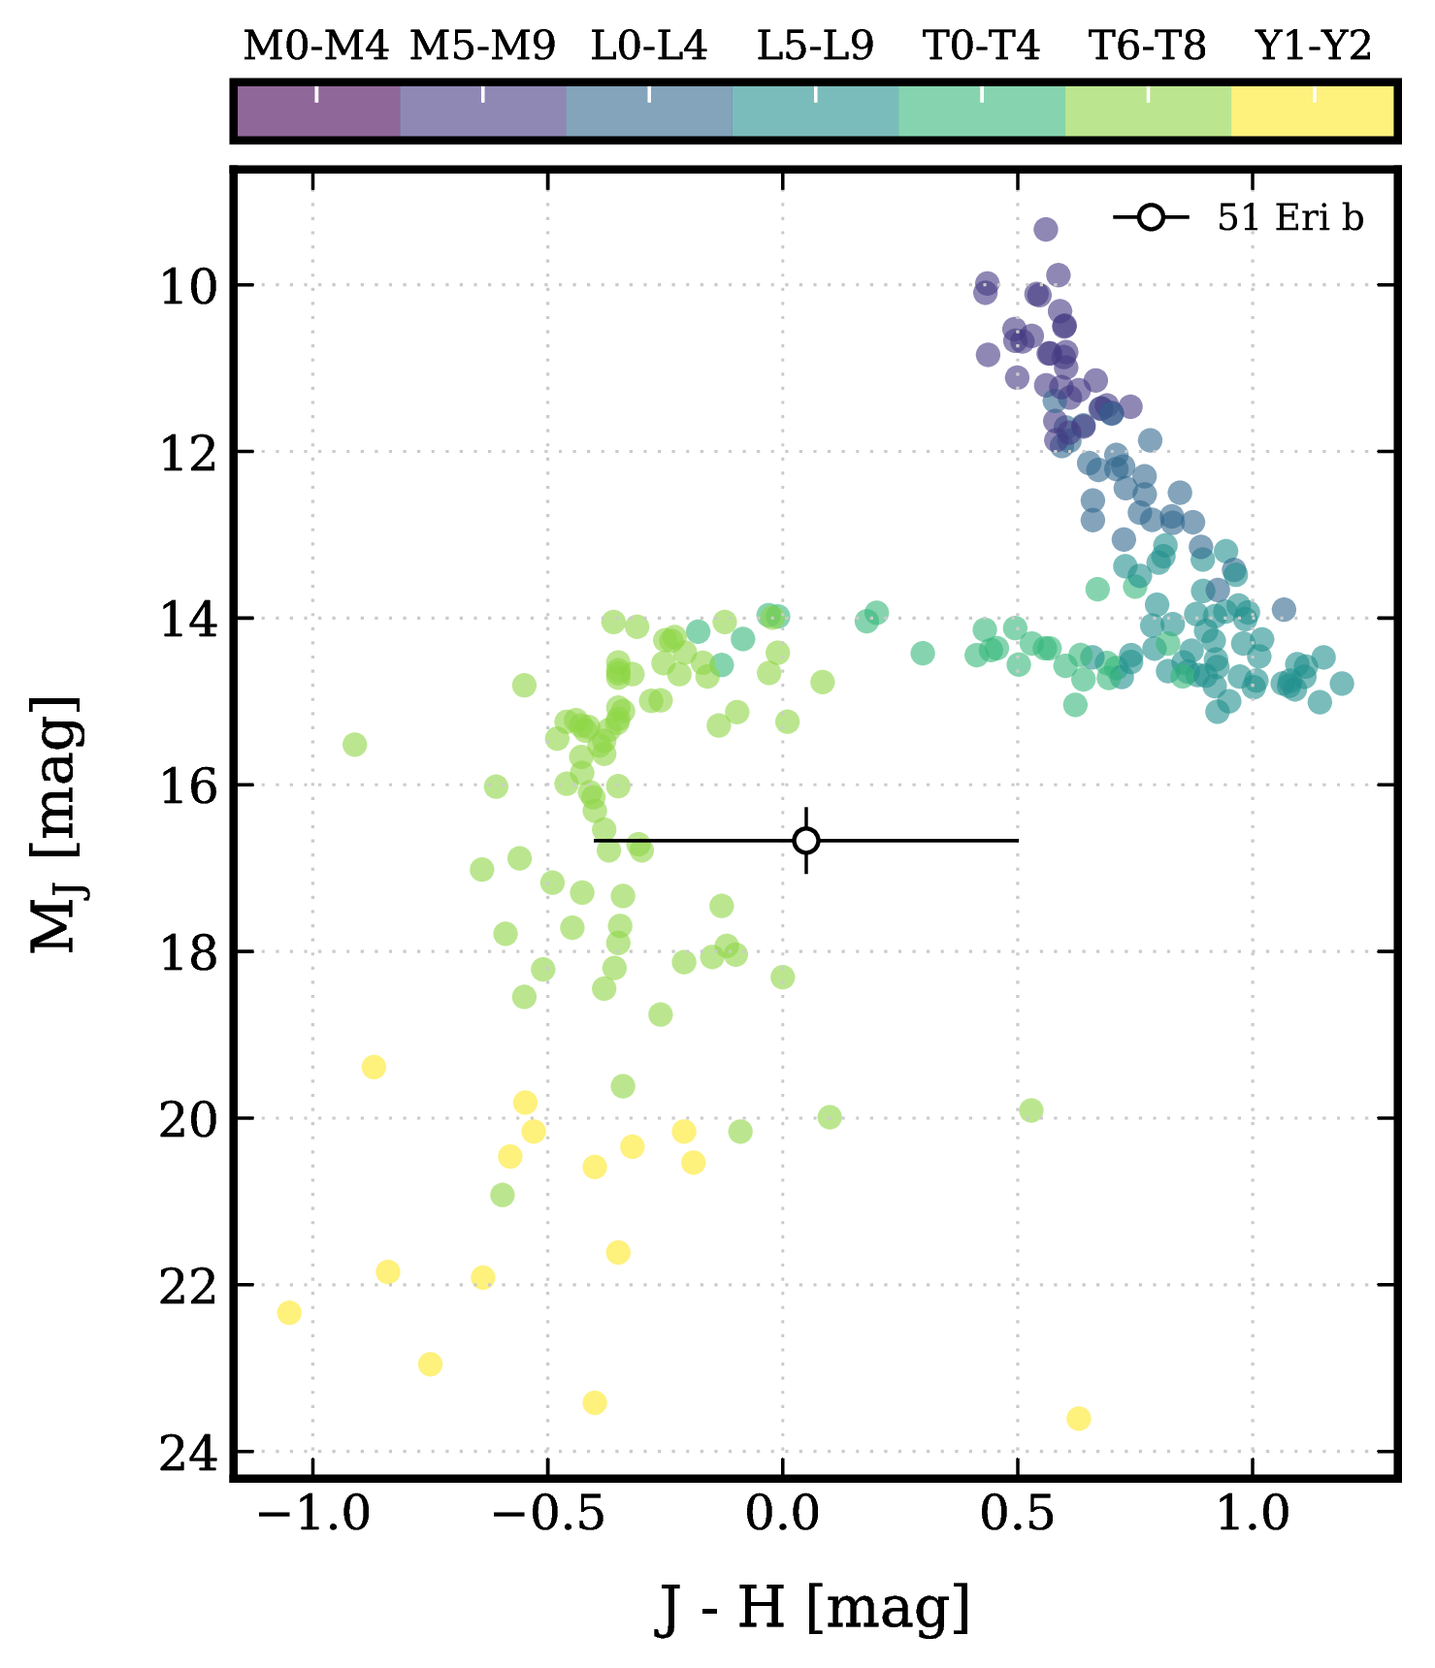
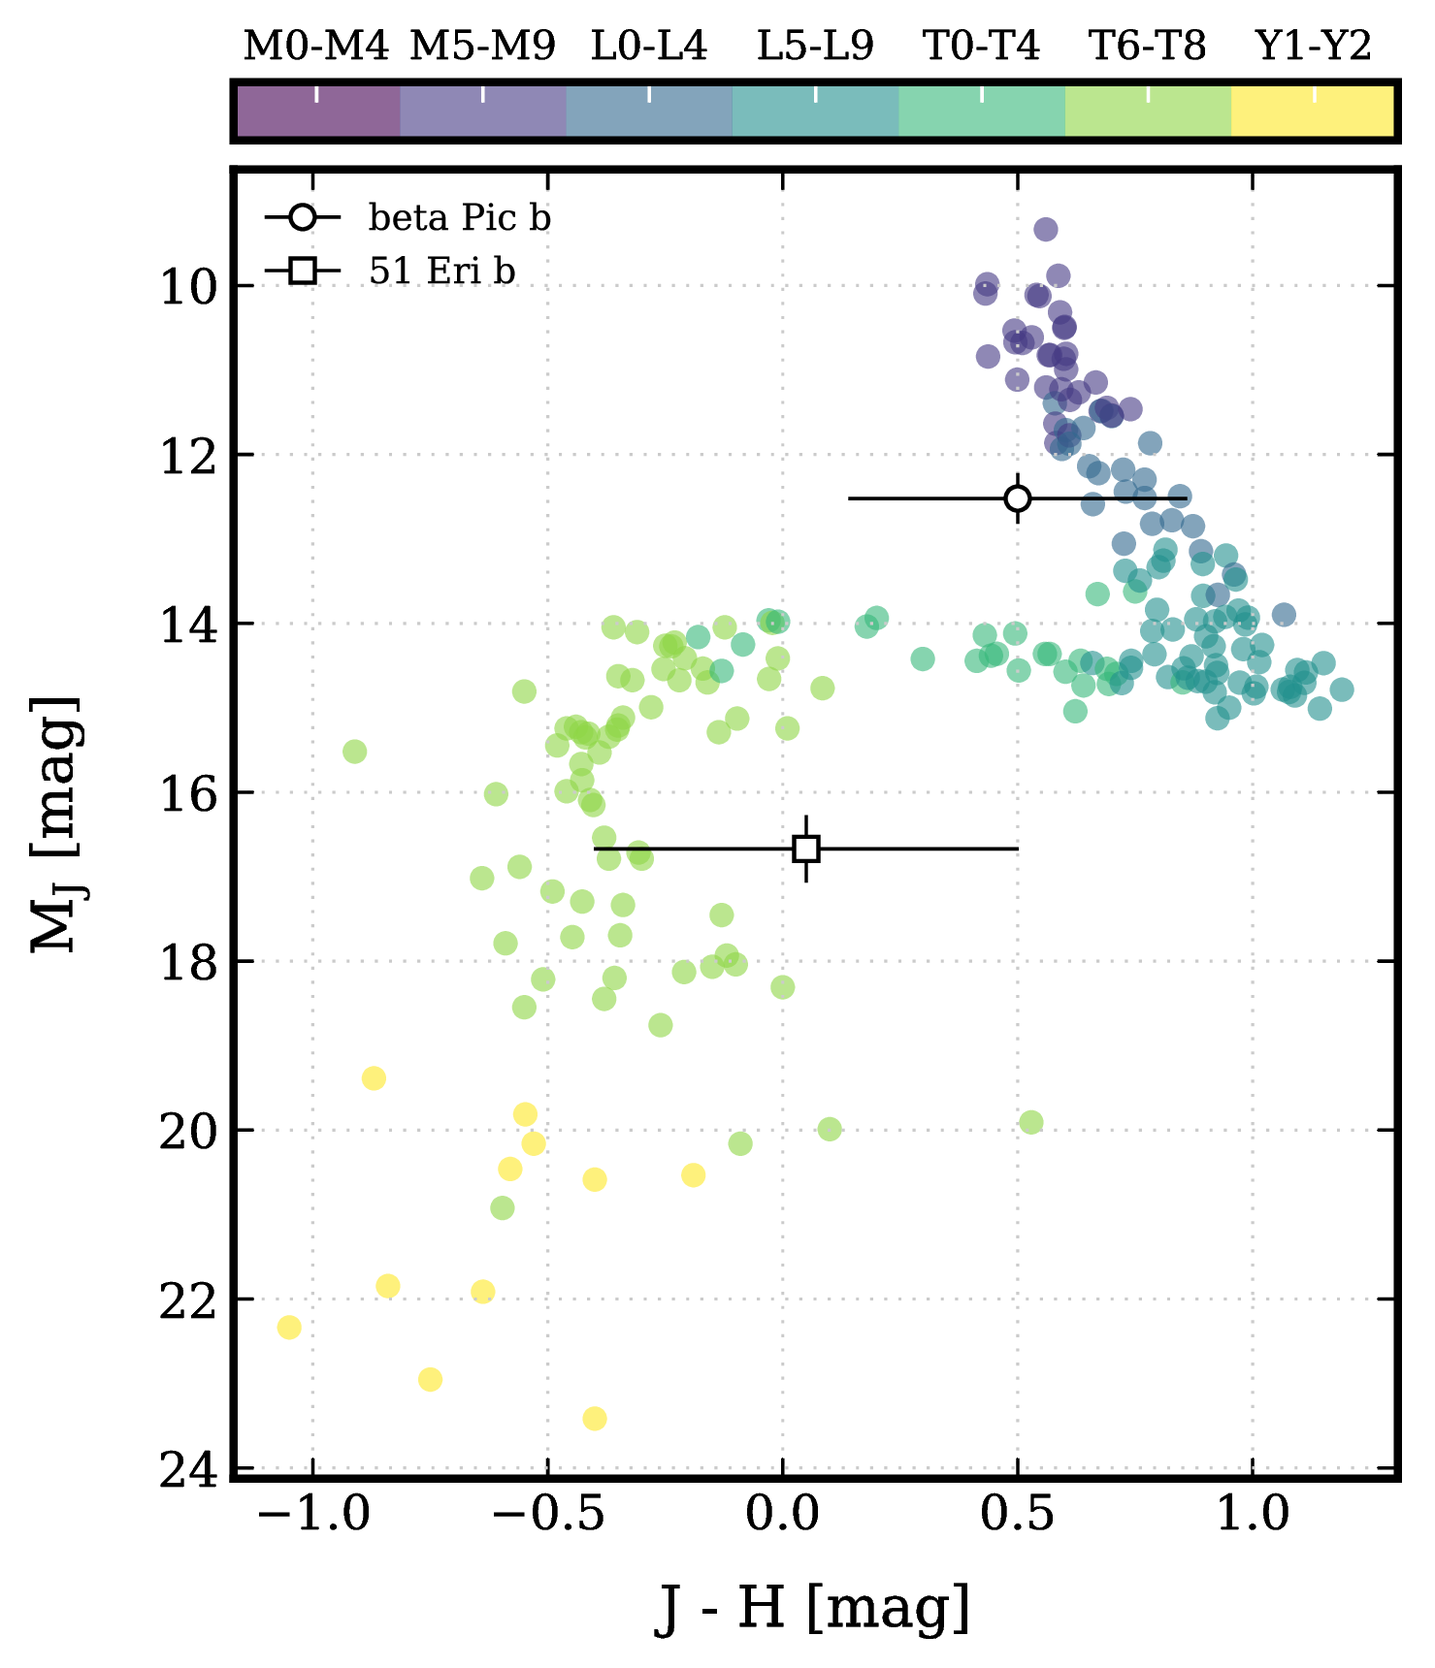
companion data

diff --git a/species/data/companions.py b/species/data/companions.py
@@ -36,59 +36,70 @@ def get_data():
                                    'Keck/NIRC2.Lp':(16.20, 0.11), # Rajan et al. 2017
                                    'Keck/NIRC2.Ms':(16.1, 0.5)}}, # Rajan et al. 2017
 
-            # 'HR 8799 b':{'distance':41.29,
-            #              'app_mag':{'':(),
-            #                         '':(),
-            #                         '':(),
-            #                         '':(),
-            #                         '':(),
-            #                         '':(),
-            #                         '':()}},
+            'HR 8799 b':{'distance':41.29,
+                         'app_mag':{'Subaru/CIAO.z':(21.22, 0.29), # Currie et al. 2011
+                                    'Paranal/SPHERE.IRDIS_B_J':(19.78, 0.09), # Zurlo et al. 2016
+                                    'Keck/NIRC2.H':(18.05, 0.09), # Currie et al. 2012
+                                    'Paranal/SPHERE.IRDIS_D_H23_2':(18.08, 0.14), # Zurlo et al. 2016
+                                    'Paranal/SPHERE.IRDIS_D_H23_3':(17.78, 0.10), # Zurlo et al. 2016
+                                    'Keck/NIRC2.Ks':(17.03, 0.08), # Marois et al. 2010
+                                    'Paranal/SPHERE.IRDIS_D_K12_1':(17.15, 0.06), # Zurlo et al. 2016
+                                    'Paranal/SPHERE.IRDIS_D_K12_2':(16.97, 0.09), # Zurlo et al. 2016
+                                    'Keck/NIRC2.Lp':(15.58, 0.10), # Currie et al. 2014
+                                    'Keck/NIRC2.Ms':(16.05, 0.30)}}, # Galicher et al. 2011
 
-            # 'HR 8799 c':{'distance':41.29,
-            #              'app_mag':{'':(),
-            #                         '':(),
-            #                         '':(),
-            #                         '':(),
-            #                         '':(),
-            #                         '':(),
-            #                         '':()}},
+            'HR 8799 c':{'distance':41.29,
+                         'app_mag':{'Paranal/SPHERE.IRDIS_B_J':(18.60, 0.13), # Zurlo et al. 2016
+                                    'Keck/NIRC2.H':(17.06, 0.13), # Currie et al. 2012
+                                    'Paranal/SPHERE.IRDIS_D_H23_2':(17.09, 0.12), # Zurlo et al. 2016
+                                    'Paranal/SPHERE.IRDIS_D_H23_3':(16.78, 0.10), # Zurlo et al. 2016
+                                    'Keck/NIRC2.Ks':(16.11, 0.08), # Marois et al. 2010
+                                    'Paranal/SPHERE.IRDIS_D_K12_1':(16.19, 0.05), # Zurlo et al. 2016
+                                    'Paranal/SPHERE.IRDIS_D_K12_2':(15.86, 0.07), # Zurlo et al. 2016
+                                    'Keck/NIRC2.Lp':(15.72, 0.08), # Currie et al. 2014
+                                    'Keck/NIRC2.Ms':(15.03, 0.14)}}, # Galicher et al. 2011
 
-            # 'HR 8799 d':{'distance':41.29,
-            #              'app_mag':{'':(),
-            #                         '':(),
-            #                         '':(),
-            #                         '':(),
-            #                         '':(),
-            #                         '':(),
-            #                         '':()}},
+            'HR 8799 d':{'distance':41.29,
+                         'app_mag':{'Paranal/SPHERE.IRDIS_B_J':(18.59, 0.37), # Zurlo et al. 2016
+                                    'Keck/NIRC2.H':(16.71, 0.24), # Currie et al. 2012
+                                    'Paranal/SPHERE.IRDIS_D_H23_2':(17.02, 0.17), # Zurlo et al. 2016
+                                    'Paranal/SPHERE.IRDIS_D_H23_3':(16.68, 0.21), # Zurlo et al. 2016
+                                    'Keck/NIRC2.Ks':(16.09, 0.12), # Marois et al. 2010
+                                    'Paranal/SPHERE.IRDIS_D_K12_1':(16.20, 0.07), # Zurlo et al. 2016
+                                    'Paranal/SPHERE.IRDIS_D_K12_2':(15.84, 0.10), # Zurlo et al. 2016
+                                    'Keck/NIRC2.Lp':(14.56, 0.09), # Currie et al. 2014
+                                    'Keck/NIRC2.Ms':(14.65, 0.35)}}, # Galicher et al. 2011
 
-            # 'HR 8799 e':{'distance':41.29,
-            #              'app_mag':{'':(),
-            #                         '':(),
-            #                         '':(),
-            #                         '':(),
-            #                         '':(),
-            #                         '':(),
-            #                         '':()}},
+            'HR 8799 e':{'distance':41.29,
+                         'app_mag':{'Paranal/SPHERE.IRDIS_B_J':(18.40, 0.21), # Zurlo et al. 2016
+                                    'Paranal/SPHERE.IRDIS_D_H23_2':(16.91, 0.20), # Zurlo et al. 2016
+                                    'Paranal/SPHERE.IRDIS_D_H23_3':(16.85, 0.16), # Zurlo et al. 2016
+                                    'Keck/NIRC2.Ks':(15.91, 0.22), # Marois et al. 2010
+                                    'Paranal/SPHERE.IRDIS_D_K12_1':(16.12, 0.10), # Zurlo et al. 2016
+                                    'Paranal/SPHERE.IRDIS_D_K12_2':(15.82, 0.11), # Zurlo et al. 2016
+                                    'Keck/NIRC2.Lp':(14.55, 0.12)}}, # Currie et al. 2014
 
-            # 'HD 95086 b':{'distance':86.44,
-            #               'app_mag':{'':(),
-            #                          '':(),
-            #                          '':(),
-            #                          '':(),
-            #                          '':(),
-            #                          '':(),
-            #                          '':()}},
+            'HD 95086 b':{'distance':86.44,
+                          'app_mag':{'Gemini/GPI.H':(20.51, 0.25), # De Rosa et al. 2016
+                                     'Gemini/GPI.K1':(18.99, 0.20), # De Rosa et al. 2016
+                                     'Paranal/NACO.Lp':(16.27, 0.19)}}, # De Rosa et al. 2016
 
-            # '2M1207 B':{'distance':64.42,
-            #             'app_mag':{'':(),
-            #                        '':(),
-            #                        '':(),
-            #                        '':(),
-            #                        '':(),
-            #                        '':(),
-            #                        '':()}},
+            'PDS 70 b':{'distance':113.43,
+                        'app_mag':{'Paranal/SPHERE.IRDIS_D_H23_2':(17.94, 0.24), # Keppler et al. 2018
+                                   'Paranal/SPHERE.IRDIS_D_H23_3':(17.95, 0.17), # Keppler et al. 2018
+                                   'Paranal/SPHERE.IRDIS_D_K12_1':(16.65, 0.06), # Müller et al. 2018
+                                   'Paranal/SPHERE.IRDIS_D_K12_2':(16.44, 0.05), # Müller et al. 2018
+                                   'Paranal/NACO.Lp':(14.75, 0.62)}}, # Keppler et al. 2018
+
+            '2M1207 b':{'distance':64.42,
+                        'app_mag':{'HST/NICMOS1.F090M':(22.58, 0.35), # Song et al. 2006
+                                   'HST/NICMOS1.F145M':(19.05, 0.03), # Song et al. 2006
+                                   'HST/NICMOS1.F160W':(18.27, 0.02), # Song et al. 2006
+                                   'Paranal/NACO.J':(20.0, 0.20), # Mohanty et al. 200z
+                                   'Paranal/NACO.H':(18.09, 0.21), # Chauvin et al. 2004
+                                   'Paranal/NACO.Ks':(16.93, 0.11), # Chauvin et al. 2004
+                                   # 'Magellan/MagAO.3.3':(15.46, 0.10), # Skemer et al. 2014
+                                   'Paranal/NACO.Lp':(15.28, 0.14)}}, # Chauvin et al. 2004
 
             'AB Pic B':{'distance':50.12,
                         'app_mag':{'Paranal/NACO.J':(16.18, 0.10), # Chauvin et al. 2005
@@ -99,20 +110,22 @@ def get_data():
                            'app_mag':{'Paranal/SPHERE.IRDIS_B_H':(16.79, 0.06), # Milli et al. 2016
                                       'Paranal/SPHERE.IRDIS_D_K12_1':(15.2, 0.10), # Chauvin et al. 2017
                                       'Paranal/SPHERE.IRDIS_D_K12_2':(14.88, 0.09), # Chauvin et al. 2017
-                                      'Paranal/NACO.Lp':(13.43, 0.16)}}, # Milli et al. 2016, error is +0.17, -0.15?
+                                      # 'Paranal/NACO.NB405':(), # Stolker et al. in prep.
                                       # 'Paranal/NACO.Mp':(), # Stolker et al. in prep.
+                                      'Paranal/NACO.Lp':(13.43, 0.16)}}, # Milli et al. 2016, error is +0.17, -0.15
 
-            # 'GQ Lup B':{'distance':151.82,
-            #             'app_mag':{'':(),
-            #                        '':(),
-            #                        '':(),
-            #                        '':(),
-            #                        '':(),
-            #                        '':(),
-            #                        '':()}},
+            'GQ Lup B':{'distance':151.82,
+                        'app_mag':{'HST/WFPC2.f606w':(19.19, 0.07), # Marois et al. 2006
+                                   'HST/WFPC2.f814w':(17.67, 0.05), # Marois et al. 2006
+                                   'HST/NICMOS2.F171M':(13.84, 0.13), # Marois et al. 2006
+                                   'HST/NICMOS2.F190N':(14.08, 0.20), # Marois et al. 2006
+                                   'HST/NICMOS2.F215N':(13.40, 0.15), # Marois et al. 2006
+                                   'Subaru/CIAO.CH4s':(13.76, 0.26), # Marois et al. 2006
+                                   'Subaru/CIAO.K':(13.37, 0.12), # Marois et al. 2006
+                                   'Subaru/CIAO.Lp':(12.44, 0.22)}}, # Marois et al. 2006
 
             'PZ Tel B':{'distance':47.13,
-                        'app_mag':{'Paranal/SPHERE.ZIMPOL_R_PRIM':(17.84, 0.3), # Maire et al. 2015, error is +0.22, −0.31?
+                        'app_mag':{'Paranal/SPHERE.ZIMPOL_R_PRIM':(17.84, 0.3), # Maire et al. 2015, error is +0.22, −0.31
                                    'Paranal/SPHERE.ZIMPOL_I_PRIM':(15.16, 0.12), # Maire et al. 2015
                                    'Paranal/SPHERE.IRDIS_D_H23_2':(11.78, 0.19), # Maire et al. 2015
                                    'Paranal/SPHERE.IRDIS_D_H23_3':(11.65, 0.19), # Maire et al. 2015
@@ -127,51 +140,49 @@ def get_data():
                                    'Gemini/NICI.ED286':(11.68, 0.14), # Biller et al. 2010
                                    'Gemini/NIRI.H2S1v2-1-G0220':(11.39, 0.14)}}, # Biller et al. 2010
 
-            # 'kappa And B':{'distance':50.06,
-            #                'app_mag':{'':(),
-            #                           '':(),
-            #                           '':(),
-            #                           '':(),
-            #                           '':(),
-            #                           '':(),
-            #                           '':()}},
+            'kappa And b':{'distance':50.06,
+                           'app_mag':{'Subaru/CIAO.J':(15.86, 0.21), # Bonnefoy et al. 2014
+                                      'Subaru/CIAO.H':(14.95, 0.13), # Bonnefoy et al. 2014
+                                      'Subaru/CIAO.Ks':(14.32, 0.09), # Bonnefoy et al. 2014
+                                      'Keck/NIRC2.Lp':(13.12, 0.1), # Bonnefoy et al. 2014
+                                      # 'Keck/NIRC2.NB_4.05':(13.0, 0.2), # Bonnefoy et al. 2014
+                                      'LBT/LMIRCam.M_77K':(13.3, 0.3)}}, # Bonnefoy et al. 2014
 
             'GJ 504 b':{'distance':17.54,
-                        'app_mag':{'Paranal/SPHERE.IRDIS_D_Y23_2':(20.98, 0.20),
-                                   'Paranal/SPHERE.IRDIS_D_Y23_3':(20.14, 0.09),
-                                   # 'Paranal/SPHERE.IRDIS_D_J23_2':(>21.28, ),
-                                   'Paranal/SPHERE.IRDIS_D_J23_3':(19.01, 0.17),
-                                   'Paranal/SPHERE.IRDIS_D_H23_2':(18.95, 0.30),
-                                   'Paranal/SPHERE.IRDIS_D_H23_3':(21.81, 0.35),
-                                   'Paranal/SPHERE.IRDIS_D_K12_1':(18.77, 0.20),
-                                   # 'Paranal/SPHERE.IRDIS_D_K12_2':(>19.96, ),
-                                   'Subaru/CIAO.J':(19.78, 0.10),
-                                   'Subaru/CIAO.H':(20.01, 0.14),
-                                   'Subaru/CIAO.Ks':(19.38, 0.11),
-                                   'Subaru/CIAO.CH4s':(19.58, 0.13),
-                                   # 'Subaru/CIAO.CH4l':(>20.63, ),
-                                   # 'LBTI/LMIRcam.L_NB6':(17.59, 0.17),
-                                   # 'LBTI/LMIRcam.L_NB7':(16.47, 0.19),
-                                   # 'LBTI/LMIRcam.L_NB8':(15.85, 0.17),
-                                   'Subaru/IRCS.Lp':(16.70, 0.17)}},
+                        'app_mag':{'Paranal/SPHERE.IRDIS_D_Y23_2':(20.98, 0.20), # Bonnefoy et al. 2018
+                                   'Paranal/SPHERE.IRDIS_D_Y23_3':(20.14, 0.09), # Bonnefoy et al. 2018
+                                   # 'Paranal/SPHERE.IRDIS_D_J23_2':(>21.28, ), # Bonnefoy et al. 2018
+                                   'Paranal/SPHERE.IRDIS_D_J23_3':(19.01, 0.17), # Bonnefoy et al. 2018
+                                   'Paranal/SPHERE.IRDIS_D_H23_2':(18.95, 0.30), # Bonnefoy et al. 2018
+                                   'Paranal/SPHERE.IRDIS_D_H23_3':(21.81, 0.35), # Bonnefoy et al. 2018
+                                   'Paranal/SPHERE.IRDIS_D_K12_1':(18.77, 0.20), # Bonnefoy et al. 2018
+                                   # 'Paranal/SPHERE.IRDIS_D_K12_2':(>19.96, ), # Bonnefoy et al. 2018
+                                   'Subaru/CIAO.J':(19.78, 0.10), # Janson et al. 2013
+                                   'Subaru/CIAO.H':(20.01, 0.14), # Janson et al. 2013
+                                   'Subaru/CIAO.Ks':(19.38, 0.11), # Janson et al. 2013
+                                   'Subaru/CIAO.CH4s':(19.58, 0.13), # Janson et al. 2013
+                                   # 'Subaru/CIAO.CH4l':(>20.63, ), # Janson et al. 2013
+                                   # 'LBTI/LMIRcam.L_NB6':(17.59, 0.17), # Skemer et al. 2016
+                                   # 'LBTI/LMIRcam.L_NB7':(16.47, 0.19), # Skemer et al. 2016
+                                   # 'LBTI/LMIRcam.L_NB8':(15.85, 0.17), # Skemer et al. 2016
+                                   'Subaru/IRCS.Lp':(16.70, 0.17)}}, # Kuzuhara et al. 2013
 
-            # 'GU Psc B':{'distance':47.61,
-            #             'app_mag':{'':(),
-            #                        '':(),
-            #                        '':(),
-            #                        '':(),
-            #                        '':(),
-            #                        '':(),
-            #                        '':()}},
+            'GU Psc b':{'distance':47.61,
+                        'app_mag':{'Gemini/GMOS-S.z':(21.75, 0.07), # Naud et al. 2014
+                                   'CFHT/Wircam.Y':(19.4, 0.05), # Naud et al. 2014
+                                   'CFHT/Wircam.J':(18.12, 0.03), # Naud et al. 2014
+                                   'CFHT/Wircam.H':(17.70, 0.03), # Naud et al. 2014
+                                   'CFHT/Wircam.Ks':(17.40, 0.03), # Naud et al. 2014
+                                   'WISE/WISE.W1':(17.17, 0.33), # Naud et al. 2014
+                                   'WISE/WISE.W2':(15.41, 0.22)}}, # Naud et al. 2014
 
-            # '1RXS 1609 B':{'distance':139.67,
-            #                'app_mag':{'':(),
-            #                           '':(),
-            #                           '':(),
-            #                           '':(),
-            #                           '':(),
-            #                           '':(),
-            #                           '':()}},
+            '1RXS 1609 B':{'distance':139.67,
+                           'app_mag':{'Gemini/NIRI.J-G0202w':(17.90, 0.12), # Lafreniere et al. 2008
+                                      'Gemini/NIRI.H-G0203w':(16.87, 0.07), # Lafreniere et al. 2008
+                                      'Gemini/NIRI.K-G0204w':(16.17, 0.18), # Lafreniere et al. 2008
+                                      # 'MMT/Clio.3.1':(15.65, 0.21), # Bailey et al. 2013
+                                      # 'MMT/Clio.3.3':(15.2, 0.16), # Bailey et al. 2013
+                                      'Gemini/NIRI.Lprime-G0207w':(14.8, 0.3)}}, # Lafreniere et al. 2010
 
             'GSC 06214 B':{'distance':108.84,
                            'app_mag':{'MKO/NSFCam.J':(16.24, 0.04), # Ireland et al. 2011

diff --git a/species/plot/plot_color.py b/species/plot/plot_color.py
@@ -22,6 +22,7 @@ mpl.rcParams['font.family'] = 'serif'
 
 plt.rc('axes', edgecolor='black', linewidth=2)
 
+marker = itertools.cycle(('o', 's', 'p', '<', '>', 'p', 'v', '^', '*', 'd', 'x', '+', '1', '2', '3', '4'))
 
 def plot_color_magnitude(colorbox,
                          objects,
@@ -57,8 +58,6 @@ def plot_color_magnitude(colorbox,
 
     sys.stdout.write('Plotting color-magnitude diagram: '+output+'... ')
     sys.stdout.flush()
-
-    marker = itertools.cycle(('o', 's', 'p', '<', '>', 'P', 'v', '^', '*'))
 
     plt.figure(1, figsize=(4, 4.8))
     gridsp = mpl.gridspec.GridSpec(3, 1, height_ratios=[0.2, 0.1, 4.5])
@@ -191,8 +190,6 @@ def plot_color_color(colorbox,
 
     sys.stdout.write('Plotting color-color diagram: '+output+'... ')
     sys.stdout.flush()
-
-    marker = itertools.cycle(('o', 's', 'p', '<', '>', 'P', 'v', '^', '*'))
 
     plt.figure(1, figsize=(4, 4.3))
     gridsp = mpl.gridspec.GridSpec(3, 1, height_ratios=[0.2, 0.1, 4.])

diff --git a/species/analysis/fit.py b/species/analysis/fit.py
@@ -51,12 +51,12 @@ def lnprior(param,
 
         if bounds[item][0] <= param[i] <= bounds[item][1]:
 
-            if prior[0] == 'mass':
+            if prior is None:
+                ln_prior = 0.
+
+            elif prior[0] == 'mass':
                 mass = read_model.get_mass(modeldict)
                 ln_prior = -0.5*(mass-prior[1])**2/prior[2]**2
-
-            else:
-                ln_prior = 0.
 
         else:
             ln_prior = -np.inf

diff --git a/docs/examples.rst b/docs/examples.rst
@@ -100,7 +100,8 @@ Here photometric data of 51 Eri b (Rajan et al. 2017) is added to the database. 
    database = species.Database()
    database.add_companion(name=None)
 
-   object_cmd = ('51 Eri b', 'MKO/NSFCam.J', 'MKO/NSFCam.H', 'MKO/NSFCam.J')
+   object1 = ('beta Pic b', 'Paranal/NACO.J', 'Paranal/NACO.H', 'Paranal/NACO.J')
+   object2 = ('51 Eri b', 'MKO/NSFCam.J', 'MKO/NSFCam.H', 'MKO/NSFCam.J')
 
    colormag = species.ReadColorMagnitude(library=('vlm-plx', ),
                                          filters_color=('MKO/NSFCam.J', 'MKO/NSFCam.H'),
@@ -109,11 +110,11 @@ Here photometric data of 51 Eri b (Rajan et al. 2017) is added to the database. 
    colorbox = colormag.get_color_magnitude(object_type='field')
 
    species.plot_color_magnitude(colorbox=colorbox,
-                                objects=(object_cmd, ),
+                                objects=(object1, object2),
                                 label_x='J - H [mag]',
                                 label_y='M$_\mathregular{J}$ [mag]',
-                                output='color_mag.pdf')
-
+                                output='color_mag.pdf',
+                                legend='upper left')
 
 .. image:: _images/color_mag.png
    :width: 70%

diff --git a/docs/species.read.rst b/docs/species.read.rst
@@ -4,10 +4,10 @@ species.read package
 Submodules
 ----------
 
-species.read.read\_colormag module
-----------------------------------
+species.read.read\_color module
+-------------------------------
 
-.. automodule:: species.read.read_colormag
+.. automodule:: species.read.read_color
     :members:
     :undoc-members:
     :show-inheritance:
